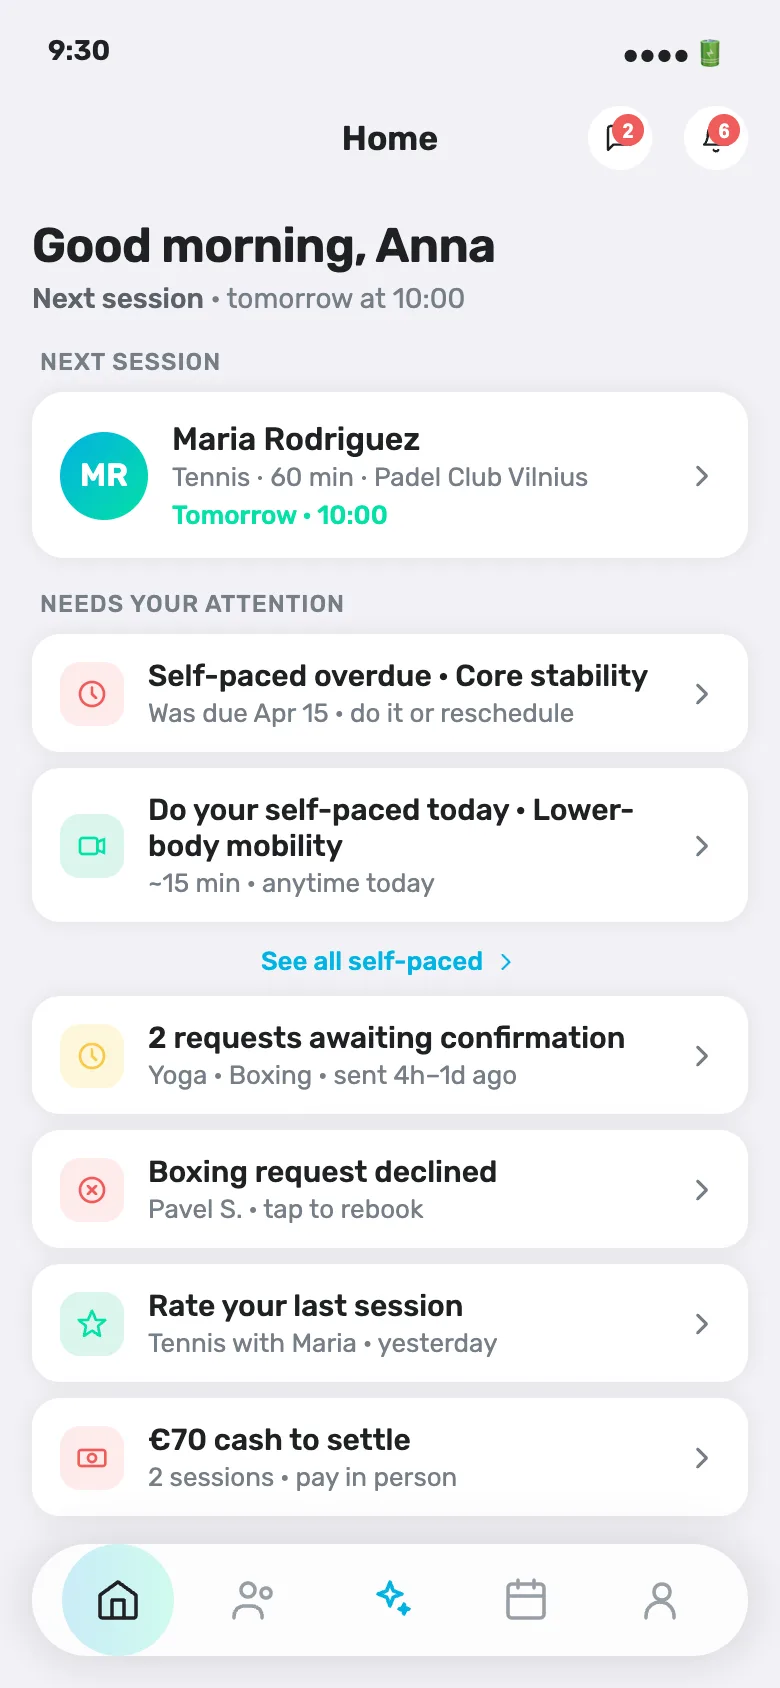
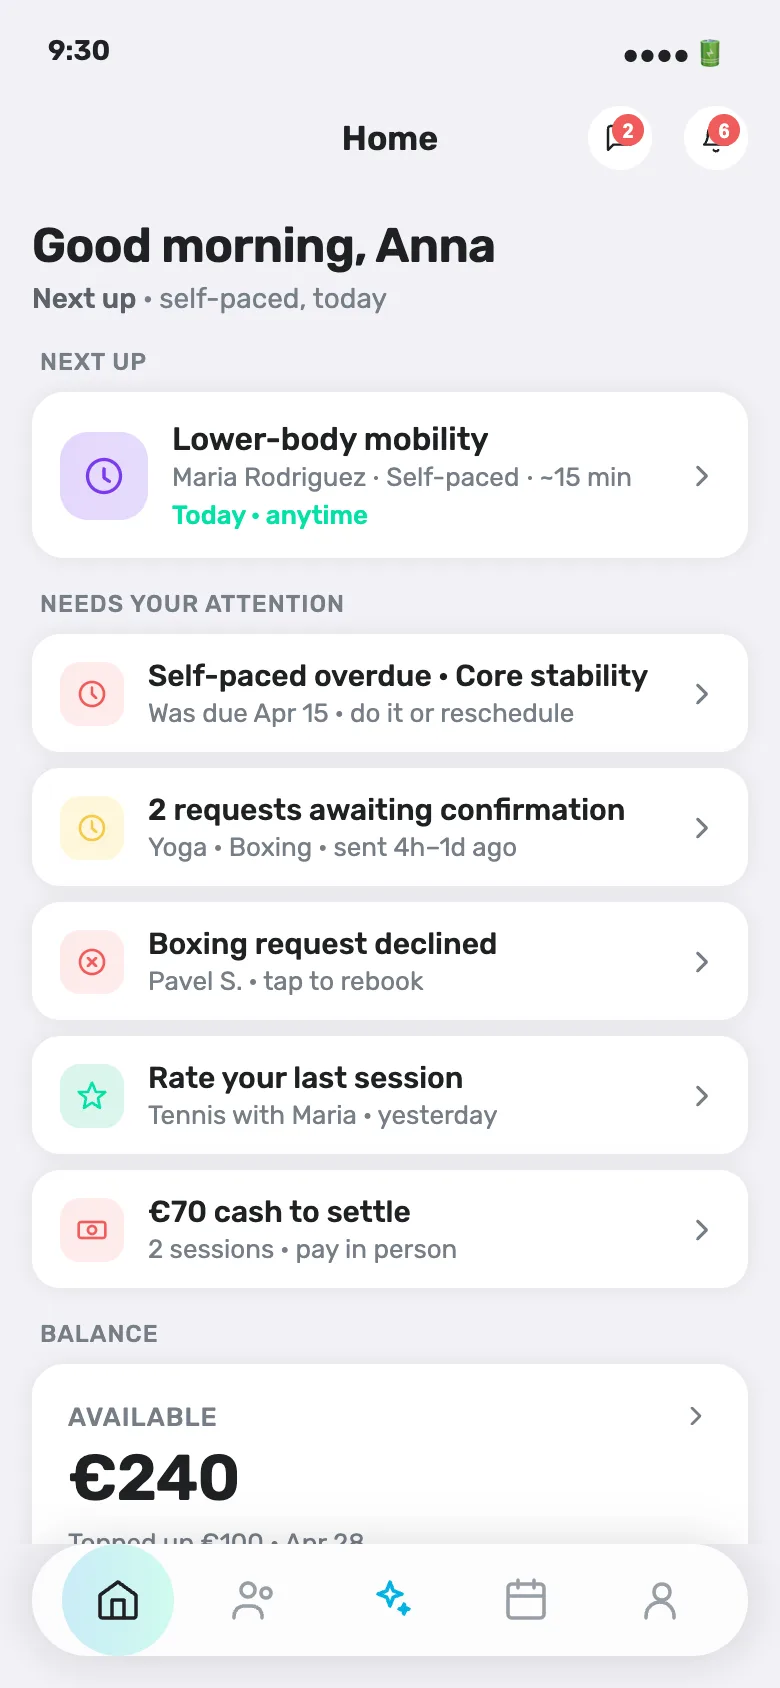
Athlete Home: the hero slot shows today, not tomorrow
The next-training card could only hold something with a clock time, so a
self-paced due today was pushed down into Needs your attention while a live
session tomorrow kept the hero slot. The dashboard was showing tomorrow above
today, and for an athlete who trains mostly self-paced it went hollow: the
card had nothing to say.

Next up now holds whatever comes first, timed or not. The self-paced shape
leads with the workout title — the coach is secondary and there is no venue —
carries the violet type tint and says "Today · anytime" instead of a clock,
because the day is the appointment. Only the overdue one stays in Needs your
attention; doing it today is the plan, not an alert.

The centred See all self-paced link is gone. It sat between the second and
sixth row of a mixed list, reading as a section footer while four unrelated
rows continued below it, and it was only there because it was the single
global door to the aggregate list. The durable homes are the Calendar tab for
upcoming and Profile for done — both recorded in §6 along with the reason the
athlete has no browse-door right now: the calendar placement is not built, so
leaving the link in the wrong place would have hidden a real gap.

The type tint is a translucent wash meant to sit behind white text on a dark
card header; on this white card the glyph takes the violet instead, the shape
pkg-punch-ic already uses.

diff --git a/prototypes/flows/athlete/dashboard.html b/prototypes/flows/athlete/dashboard.html
@@ -221,6 +221,11 @@
     font-size: 16px; font-weight: 600;
     flex-shrink: 0;
   }
+  /* Type-tinted variant of the avatar slot. --fit-grad-type-* is a translucent tint meant to
+     sit behind white text on a dark card header; on this white card it is very pale, so the
+     glyph takes the type colour instead of white (same shape as .pkg-punch-ic). */
+  .dash-next-avatar--selfpaced { border-radius: 14px; background: var(--fit-grad-type-selfpaced); color: var(--fit-color-violet-600); }
+  .fit-dark .dash-next-avatar--selfpaced { color: var(--fit-color-violet-400); }
   .dash-next-body { flex: 1; min-width: 0; }
   .dash-next-name {
     font-size: 16px; font-weight: 500; color: var(--fit-text-primary);
@@ -825,13 +830,28 @@
     <div data-dash-state="default" class="dash-stack">
       <div class="dash-greeting">
         <div class="dash-greeting-hello">Good morning, Anna</div>
-        <div class="dash-greeting-sub"><strong>Next session</strong> &middot; tomorrow at 10:00</div>
+        <div class="dash-greeting-sub" id="dash-greet-next"><strong>Next up</strong> &middot; self-paced, today</div>
       </div>
 
       <!-- Next training -->
       <div>
-        <div class="dash-section-label">Next session</div>
-        <div class="dash-next">
+        <div class="dash-section-label">Next up</div>
+        <!-- Self-paced first: it is due TODAY, the live session is tomorrow. Toggle: dashNext('live') -->
+        <div class="dash-next" data-next="selfpaced" data-a11y-id="athlete.dashboard.next.self-paced" onclick="window.location.href='../shared/self-paced.html#s-welcome'">
+          <div class="dash-next-avatar dash-next-avatar--selfpaced">
+            <svg width="22" height="22" viewBox="0 0 24 24" fill="none" stroke="currentColor" stroke-width="1.8" stroke-linecap="round" stroke-linejoin="round"><circle cx="12" cy="12" r="9"/><path d="M12 8v5l3 2"/></svg>
+          </div>
+          <div class="dash-next-body">
+            <div class="dash-next-name">Lower-body mobility</div>
+            <div class="dash-next-meta">
+              <span>Maria Rodriguez</span><span class="dot"></span><span>Self-paced</span><span class="dot"></span><span>~15 min</span>
+            </div>
+            <!-- no clock: the whole point of the type is that the day is the appointment -->
+            <div class="dash-next-when">Today &middot; anytime</div>
+          </div>
+          <svg class="dash-next-chev" viewBox="0 0 24 24" fill="none" stroke="currentColor" stroke-width="2" stroke-linecap="round" stroke-linejoin="round"><path d="M9 18l6-6-6-6"/></svg>
+        </div>
+        <div class="dash-next" data-next="live" style="display:none;" data-a11y-id="athlete.dashboard.next.live">
           <div class="dash-next-avatar">MR</div>
           <div class="dash-next-body">
             <div class="dash-next-name">Maria Rodriguez</div>
@@ -856,20 +876,6 @@
               <div class="pending-sub">Was due Apr 15 &middot; do it or reschedule</div>
             </div>
             <svg class="pending-chev" viewBox="0 0 24 24" fill="none" stroke="currentColor" stroke-width="2" stroke-linecap="round" stroke-linejoin="round"><path d="M9 18l6-6-6-6"/></svg>
-          </div>
-          <!-- Self-paced due today -->
-          <div class="pending-row" data-a11y-id="athlete.dashboard.attention.self-paced-today" onclick="window.location.href='../shared/self-paced.html#s-welcome'">
-            <div class="pending-icon" style="background:rgba(16,185,129,0.15);color:var(--fit-teal-500);"><svg viewBox="0 0 24 24" fill="none" stroke="currentColor" stroke-width="2"><rect x="3" y="6" width="13" height="12" rx="2"/><path d="M16 9l5-2v10l-5-2z"/></svg></div>
-            <div class="pending-body">
-              <div class="pending-title">Do your self-paced today &middot; Lower-body mobility</div>
-              <div class="pending-sub">~15 min &middot; anytime today</div>
-            </div>
-            <svg class="pending-chev" viewBox="0 0 24 24" fill="none" stroke="currentColor" stroke-width="2" stroke-linecap="round" stroke-linejoin="round"><path d="M9 18l6-6-6-6"/></svg>
-          </div>
-          <!-- Global entry to the aggregated My self-paced list (all coaches, unfiltered) -->
-          <div data-a11y-id="athlete.dashboard.attention.self-paced-all" onclick="window.location.href='../shared/self-paced.html#s-list'" style="display:flex;align-items:center;justify-content:center;gap:4px;padding:4px 0 2px;font-size:13px;font-weight:500;color:var(--fit-brand-primary);cursor:pointer;">
-            See all self-paced
-            <svg width="14" height="14" viewBox="0 0 24 24" fill="none" stroke="currentColor" stroke-width="2" stroke-linecap="round" stroke-linejoin="round"><path d="M9 18l6-6-6-6"/></svg>
           </div>
           <div class="pending-row" data-a11y-id="athlete.dashboard.attention.awaiting" onclick="openInboxOnTab('waiting')">
             <div class="pending-icon" style="background:rgba(250,204,21,0.15);color:var(--fit-yellow-400);"><svg viewBox="0 0 24 24" fill="none" stroke="currentColor" stroke-width="2" stroke-linecap="round" stroke-linejoin="round"><circle cx="12" cy="12" r="9"/><path d="M12 7v5l3 3"/></svg></div>
@@ -1078,7 +1084,7 @@
       </div>
 
       <div>
-        <div class="dash-section-label">Next training</div>
+        <div class="dash-section-label">Next up</div>
         <div class="dash-next-empty">
           <div class="dash-next-empty-title">Ready for your next session?</div>
           <div class="dash-next-empty-sub">You have no upcoming trainings. Browse coaches in your area to book.</div>
@@ -1137,7 +1143,7 @@
       </div>
 
       <div>
-        <div class="dash-section-label">Next training</div>
+        <div class="dash-section-label">Next up</div>
         <div class="dash-next-empty">
           <div class="dash-next-empty-title">Time for your next session</div>
           <div class="dash-next-empty-sub">No bookings yet. Browse the marketplace to find your coach.</div>
@@ -1201,7 +1207,7 @@
       </div>
 
       <div>
-        <div class="dash-section-label">Next training &middot; cached</div>
+        <div class="dash-section-label">Next up &middot; cached</div>
         <div class="dash-next">
           <div class="dash-next-avatar">MR</div>
           <div class="dash-next-body">
@@ -1712,11 +1718,17 @@
       <button onclick="setDashState('loading',this)">Loading</button>
       <button onclick="setDashState('error',this)">Error</button>
     </div>
+    <div class="state-toggle">
+      <button class="active" onclick="dashNext('selfpaced',this)">Next = self-paced</button>
+      <button onclick="dashNext('live',this)">Next = live session</button>
+    </div>
     <h3>Athlete Home</h3>
 
     <p><strong>Top → bottom (mirrors coach Home)</strong>: Next session · Needs attention · Balance · Recently viewed · Your activity. <em>Reordered 2026-06-05; Recommended section removed for now.</em></p>
     <hr>
-    <p><strong>Next session</strong> — most actionable, on top. Tap → event detail. Compact: avatar + sport + duration + location + when (teal).</p>
+    <p><strong>Next up</strong> — most actionable, on top. Tap → the training itself. Compact: avatar + sport + duration + location + when (teal).</p>
+    <p>It holds <strong>whatever comes first, timed or not</strong>. It used to be able to hold only something with a clock time, so a self-paced due <em>today</em> was pushed down into <em>Needs your attention</em> while a live session <em>tomorrow</em> kept the hero slot — the dashboard showed tomorrow above today. For an athlete who trains mostly self-paced the card went hollow altogether. The self-paced shape leads with the <strong>workout title</strong> (the coach is secondary, there is no venue), carries the violet type gradient, and its when-line reads <strong>&ldquo;Today · anytime&rdquo;</strong> — no clock, because the day <em>is</em> the appointment.</p>
+    <p class="note">Only the <strong>overdue</strong> self-paced stays in <em>Needs your attention</em> — that one is genuinely something you missed. &ldquo;Do it today&rdquo; is not an alert, it is the plan. The centred <em>See all self-paced</em> link was removed from the middle of the attention list: it read as a section footer while four unrelated rows continued below it, and it was there only because it was the single global door to the aggregate list. The durable homes are the <strong>Calendar</strong> tab (upcoming — a self-paced is day-bound training and lands as an athlete-only event, spec §9) and <strong>Profile / Your activity</strong> (done). <strong>Blocked:</strong> that calendar placement is not implemented — the backend never creates the event, so the athlete&rsquo;s day is empty (self-paced impl-audit gap 4).</p>
     <hr>
     <p><strong>Needs your attention</strong> — athlete action items (same <code>.pending-row</code> grammar as coach's). Conditional; shown only when present. Possible types:
       <em>requests awaiting confirmation</em> (sent to coaches), <em>request declined/expired</em> (→ rebook), <em>rate your last session</em> (→ rate-queue), <em>cash to settle</em> (owed, pay in person), <em>low balance</em> (→ top up), <em>leave a review</em> (next-day, → composer), <em>reschedule proposed by coach</em> (accept/decline). Icon colour per type (yellow/red/teal).</p>
@@ -1807,6 +1819,19 @@ function go(id, btn) {
   document.querySelectorAll('.ann').forEach(a => a.classList.remove('active'));
   var ann = document.querySelector('.ann[data-screen="' + id + '"]');
   if (ann) ann.classList.add('active');
+}
+
+// The hero slot takes whichever training comes first, so it has two shapes: a live session
+// with a clock time, and a self-paced whose appointment is the day itself.
+function dashNext(kind, btn) {
+  if (btn) { btn.parentElement.querySelectorAll('button').forEach(b => b.classList.remove('active')); btn.classList.add('active'); }
+  document.querySelectorAll('#s-dashboard [data-next]').forEach(function (el) {
+    el.style.display = (el.dataset.next === kind) ? '' : 'none';
+  });
+  var g = document.getElementById('dash-greet-next');
+  if (g) g.innerHTML = (kind === 'selfpaced')
+    ? '<strong>Next up</strong> &middot; self-paced, today'
+    : '<strong>Next up</strong> &middot; tomorrow at 10:00';
 }
 
 function setDashState(state, btn) {

diff --git a/prototypes/board/board-data.js b/prototypes/board/board-data.js
@@ -1,6 +1,6 @@
 // GENERATED by tools/board/extract.mjs — do not edit.
 window.FIT_BOARD = {
-  "generated": "2026-08-25",
+  "generated": "2026-08-26",
   "modules": [
     {
       "file": "flows/shared/auth.html",
@@ -1849,11 +1849,6 @@ window.FIT_BOARD = {
           "level": 1,
           "order": 8,
           "inFrom": [
-            {
-              "file": "flows/athlete/dashboard.html",
-              "label": "Athlete Dashboard",
-              "id": "s-dashboard"
-            },
             {
               "file": "flows/athlete/my-coaches.html",
               "label": "Athlete · My Coaches",
@@ -5548,7 +5543,7 @@ window.FIT_BOARD = {
       "screens": [
         {
           "id": "s-dashboard",
-          "hash": "bd41896a282b",
+          "hash": "5b4f0302bef0",
           "title": "Dashboard",
           "inApp": "Home",
           "status": "canon",
@@ -5558,7 +5553,6 @@ window.FIT_BOARD = {
           "external": [
             "../shared/messages.html",
             "../shared/self-paced.html#s-welcome",
-            "../shared/self-paced.html#s-list",
             "../coach/sport-types.html",
             "../coach/personal-data.html"
           ],
@@ -5573,7 +5567,7 @@ window.FIT_BOARD = {
         },
         {
           "id": "s-rate-queue",
-          "hash": "c503f8913c27",
+          "hash": "7ded9161809b",
           "title": "Sessions to rate",
           "inApp": "Sessions to rate",
           "status": "canon",
@@ -5592,7 +5586,7 @@ window.FIT_BOARD = {
         },
         {
           "id": "s-notifications",
-          "hash": "135b6617acf8",
+          "hash": "fb30b9610701",
           "title": "Notifications inbox",
           "inApp": "Inbox",
           "status": "canon",

diff --git a/specs/self-paced.md b/specs/self-paced.md
@@ -161,7 +161,11 @@ Two rules that follow:
 
 - **Coach events → unified Inbox** (no new bell, no 4th tab): `To reply` = Set up + Review; `Waiting` = Active; `Activity` = history. Cards reuse the inbox `.req-card` shell + a `Self-paced` tag. A tabbed **batch hub** (same items, filtered) reached from a Dashboard card.
 - **Coach Dashboard** — a `.dash-action` row under "Needs your attention": "Self-paced · N to set up, N to review / N active · overdue" → the batch hub (`self-paced.html#s-queue`). Hidden when all counts 0.
-- **Athlete Dashboard** — `.pending-row`(s) under "Needs your attention": day-bound **overdue** + **due-today** self-paced → `#s-welcome`. Shown only when present.
+- **Athlete Dashboard** *(reworked 2026-08-26)* — the hero slot is **`Next up`**, and it holds **whatever training comes first, timed or not**. A self-paced due *today* outranks a live session *tomorrow*. Previously the card could only hold something with a clock time, so self-paced was pushed into "Needs your attention" and the dashboard **showed tomorrow above today** — and went hollow entirely for an athlete who trains mostly self-paced. The self-paced shape leads with the **workout title** (the coach is secondary, there is no venue), carries the violet type tint, and its when-line reads **"Today · anytime"** — no clock, because the day *is* the appointment.
+  - Only the **overdue** self-paced stays in *Needs your attention* → `#s-welcome`. "Do it today" is not an alert, it is the plan.
+  - The centred **"See all self-paced"** link was **removed** from the middle of the attention list — it read as a section footer while four unrelated rows continued below it, and existed only because it was the single global door to the aggregate list.
+  - **Athlete-side durable homes:** *upcoming* → the **Calendar** tab (a self-paced is day-bound training and lands as an athlete-only event, §9); *done* → **Profile / Your activity** (a finished self-paced is a session you did). `#s-list` is the drill-down from either. ⚠ **Blocked:** the calendar placement is not implemented — the backend never creates the `training_event`, so the athlete's day is empty (impl-audit gap 4). Until it lands, the athlete has no browse-door to `#s-list` at all, and that is deliberate rather than papered over with a link in the wrong place.
+  - **No standing self-paced block on the dashboard** — a list of everything done and upcoming is a *browse* surface, and the dashboard answers "what now". Same call as the coach side.
 - **Coach Client Detail** — a compact **summary card** (stat counters: To review / Active / Done) + **Assign self-paced** entry (coach-initiated). Tap the counters → a full **per-client screen** (`s-client-selfpaced`) with the sessions **grouped by status** (To set up / To review / With athlete / Done / Cancelled, count in each header) — chosen over an inline list (doesn't scale) and over tabs (tabs are for the all-clients batch hub; per-person is a bounded overview, so grouped sections match the athlete `s-list` and show the whole picture at once).
 - **Coach Offering detail** (`coach/sessions.html#s-detail-selfpaced`) — the catalogue entry itself: summary + Edit, then **one `Athletes` list** of everyone who ever bought it, ordered by what the coach owes (To set up → To review → Overdue → With athlete → Done) with an `.sp-pill` per row carrying that state. **Deliberately not a work queue** — see §9. Footer CTA **"Assign to a client"**. Empty state when the offering is live but unsold.
 - **Offering detail → an athlete → their list.** A row opens **that athlete's self-paced list**, never the newest instance — one athlete buys the same offering many times, and jumping into one of them hides the rest. Target is the same `#s-client-selfpaced`, entered as `clients.html?sp=<offering>#s-client-selfpaced`: a **clearable chip** scopes the list to that offering, ✕ widens it to every self-paced with the client. Same "two doors, one list" pattern as the athlete's coach chip on `#s-list`. On that screen the **person header is a door** to Client Detail (coaches arriving from an offering know the programme, not the client), and **Done rows state clip / no clip** — re-watching the video is why a finished session gets reopened.
